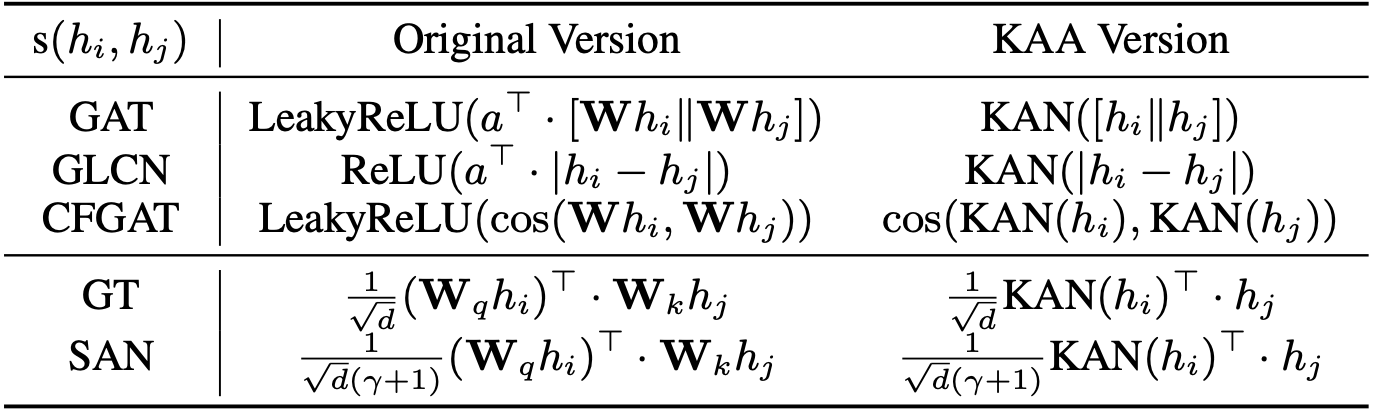
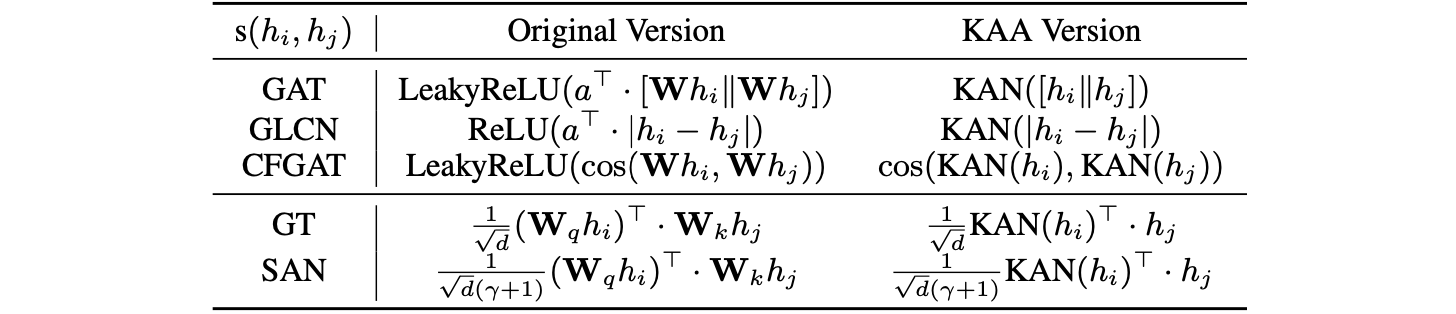
update formulas

diff --git a/README.md b/README.md
@@ -17,15 +17,9 @@ pandas 2.2.2
 
 ### Backbone Models
 
-In our experiments, we introduced five backbone models: GAT, GLCN, CFGAT, GT, and SAN. Their original scoring functions and the KAA version of the scoring functions are shown in the table below.\text{LeakyReLU}(\cos(\mathbf{W}h_i,\mathbf{W}h_j))
+In our experiments, we introduced five backbone models: GAT, GLCN, CFGAT, GT, and SAN. Their original scoring functions and the KAA version of the scoring functions are shown in the table below.
 
-|       | Original Version                                             | KAA Version                                                  |
-| ----- | ------------------------------------------------------------ | ------------------------------------------------------------ |
-| GAT   | <p align="center"><br/>  <img src="https://latex.codecogs.com/svg.latex?\text{LeakyReLU}(a^{\top}\cdot[\mathbf{W}h_i \Vert \mathbf{W}h_j])" /><br/></p> | <p align="center"><br/>  <img src="https://latex.codecogs.com/svg.latex?\text{KAN}([h_i \Vert h_j])" /><br/></p> |
-| GLCN  | <p align="center"><br/>  <img src="https://latex.codecogs.com/svg.latex?\text{ReLU}(a^{\top}\cdot \|h_i-h_j\|)" /><br/></p> | <p align="center"><br/>  <img src="https://latex.codecogs.com/svg.latex?\text{KAN}(\|h_i-h_j\|)" /><br/></p> |
-| CFGAT | <p align="center"><br/>  <img src="https://latex.codecogs.com/svg.latex?\text{LeakyReLU}(\cos(\mathbf{W}h_i,\mathbf{W}h_j))" /><br/></p> | <p align="center"><br/>  <img src="https://latex.codecogs.com/svg.latex?\cos(\text{KAN}(h_i),\text{KAN}(h_j))" /><br/></p> |
-| GT    | <p align="center"><br/>  <img src="https://latex.codecogs.com/svg.latex?\frac{1}{\sqrt{d}}(\mathbf{W}_q h_i)^{\top}\cdot \mathbf{W}_k h_j" /><br/></p> | <p align="center"><br/>  <img src="https://latex.codecogs.com/svg.latex?\frac{1}{\sqrt{d}}\text{KAN}(h_{i})^{\top}\cdot h_{j}" /><br/></p> |
-| SAN   | <p align="center"><br/>  <img src="https://latex.codecogs.com/svg.latex?\frac{1}{\sqrt{d}(\gamma+1)}(\mathbf{W}_q h_i)^{\top}\cdot \mathbf{W}_k h_j" /><br/></p> | <p align="center"><br/>  <img src="https://latex.codecogs.com/svg.latex?\frac{1}{\sqrt{d}(\gamma+1)}\text{KAN}(h_{i})^{\top}\cdot h_{j}" /><br/></p> |
+![image-20250220161524572](./PIC/scoring_f.png)
 
 ### Experimental Results
 
